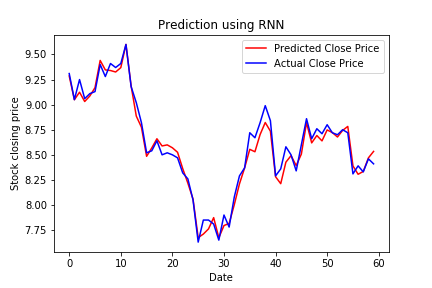
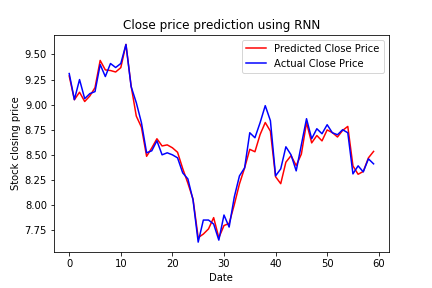
Fine tuned the code.

Changed region(s): [[0.2708, 0.0625, 0.7523, 0.125]]

diff --git a/StockPredictionCSPShortTerm.py b/StockPredictionCSPShortTerm.py
@@ -7,8 +7,6 @@ Created on Sat Mar  2 08:16:54 2019
 """
 
 from constraint import *
-import pandas as pd
-import numpy as np
 import pickle
 file_open = open('open_prediction', 'rb')
 y_pred_open = pickle.load(file_open)
@@ -43,10 +41,8 @@ stockPrediction.addVariable('day', available_days)
 stockPrediction.addVariable('action', ['Sell', 'Buy'])
 
 
-
-
-
 def stockPredictionConstraint(action, day):
+    # Buy call in case the share reaches lowest point in a span of 5 days
     if action == 'Buy' and day > 2 and day < 57:
         if y_pred_open[day-1][0] < y_pred_open[day-2][0] and \
         y_pred_open[day-1][0] < y_pred_open[day][0] and \
@@ -55,7 +51,7 @@ def stockPredictionConstraint(action, day):
             return True
         else:
             return False
-        
+    # Sell call in case the share reaches highest point in a span of 5 days    
     if action == 'Sell' and day > 3 and day < 59:
         if y_pred_open[day][0] < y_pred_open[day-1][0] and \
         y_pred_open[day+1][0] < y_pred_open[day-1][0] and \
@@ -64,21 +60,6 @@ def stockPredictionConstraint(action, day):
             return True
         else:
             return False
-        
-last_action = []
-    
-def alternatingConstraint(action, day):
-    last_action.append({'action': action, 'day': day})
-    action_list = sorted(last_action, key = lambda k: k['day'])
-    print('***********')
-    print(action_list)
-    index = 1
-    for action_day_dict in action_list:
-        if index % 2 == 0 and action_day_dict.get('action') == 'Buy':
-            return False
-        index += 1
-    
-    return True
     
 stockPrediction.addConstraint(stockPredictionConstraint, ['action', 'day'])
 
@@ -86,6 +67,7 @@ calls = stockPrediction.getSolutions()
 calls = sorted(calls, key = lambda k: k['day'])
 
 index = 1
+# Ensure that a buy call is followed by a sell call
 for action_day_dict in calls:
     if (index % 2 == 0 and action_day_dict.get('action') == 'Buy') or \
     (index % 2 == 1 and action_day_dict.get('action') == 'Sell'):

diff --git a/StockPricePrediction.py b/StockPricePrediction.py
@@ -264,6 +264,7 @@ file_low.close()
 
 
 savedPredictor = load_model('StockPredictionModel.h5')
+predicted_stock_price = savedPredictor.predict(X_test)
 file_open = open('open_prediction', 'rb')
 y_pred_open = pickle.load(file_open)
 file_open.close()
@@ -283,7 +284,7 @@ file_low.close()
 # Visualize the results
 plt.plot(y_pred_open, color = 'red', label='Predicted Open Price')
 plt.plot(y_test_open, color = 'blue', label='Actual Open Price')
-plt.title('Prediction using RNN')
+plt.title('Open price prediction using RNN')
 plt.xlabel('Date')
 plt.ylabel('Stock opening price')
 plt.legend()
@@ -292,7 +293,7 @@ plt.show()
 
 plt.plot(y_pred_volume, color = 'red', label='Predicted Volume')
 plt.plot(y_test_volume, color = 'blue', label='Actual Volume')
-plt.title('Prediction using RNN')
+plt.title('Volume prediction using RNN')
 plt.xlabel('Date')
 plt.ylabel('Stock Volume')
 plt.legend()
@@ -301,7 +302,7 @@ plt.show()
 
 plt.plot(y_pred_close, color = 'red', label='Predicted Close Price')
 plt.plot(y_test_close, color = 'blue', label='Actual Close Price')
-plt.title('Prediction using RNN')
+plt.title('Close price prediction using RNN')
 plt.xlabel('Date')
 plt.ylabel('Stock closing price')
 plt.legend()
@@ -310,7 +311,7 @@ plt.show()
 
 plt.plot(y_pred_high, color = 'red', label='Predicted Day High')
 plt.plot(y_test_high, color = 'blue', label='Actual Day High')
-plt.title('Prediction using RNN')
+plt.title('Day high price prediction using RNN')
 plt.xlabel('Date')
 plt.ylabel('Stock Day High')
 plt.legend()
@@ -319,7 +320,7 @@ plt.show()
 
 plt.plot(y_pred_low, color = 'red', label='Predicted Day Low')
 plt.plot(y_test_low, color = 'blue', label='Actual Day Low')
-plt.title('Prediction using RNN')
+plt.title('Day low price prediction using RNN')
 plt.xlabel('Date')
 plt.ylabel('Stock Day low')
 plt.legend()

diff --git a/StockPredictionCSPIntraday.py b/StockPredictionCSPIntraday.py
@@ -6,9 +6,8 @@ Created on Thu Feb 28 20:28:51 2019
 @author: hrishekesh.shinde
 """
 from constraint import *
-import pandas as pd
-import numpy as np
 import pickle
+# read the predicted data from pickle files
 file_open = open('open_prediction', 'rb')
 y_pred_open = pickle.load(file_open)
 file_open.close()
@@ -60,18 +59,20 @@ stockCallProblem_daydiff.addVariable('action', ['Short Sell', 'Intraday Buy', 'N
 stockCallProblem_maxdiff.addVariable('action', ['Short Sell', 'Intraday Buy', 'No Action'])
 stockCallProblem_mindiff.addVariable('action', ['Short Sell', 'Intraday Buy', 'No Action'])
 
+# constraint for difference between close price and open price - for intraday buy
 def addProfitConstraint_daydiff(dayDiff, action):
     minDiffBuy = 0.135
     if action == 'Intraday Buy' and dayDiff > minDiffBuy:
         return True
     return False
-
+# constraint for difference between day high price and open price - for intraday buy
 def addProfitConstraint_maxdiff(maxDiff, action):
     minDiffBuy = 0.135
     if action == 'Intraday Buy' and maxDiff > minDiffBuy:
         return True
     return False
 
+# constraint for difference between open price and day low price - for short sell
 def addProfitConstraint_mindiff(minDiff, action):
     minDiffBuy = -0.135
     if action == 'Short Sell' and minDiff < minDiffBuy:
